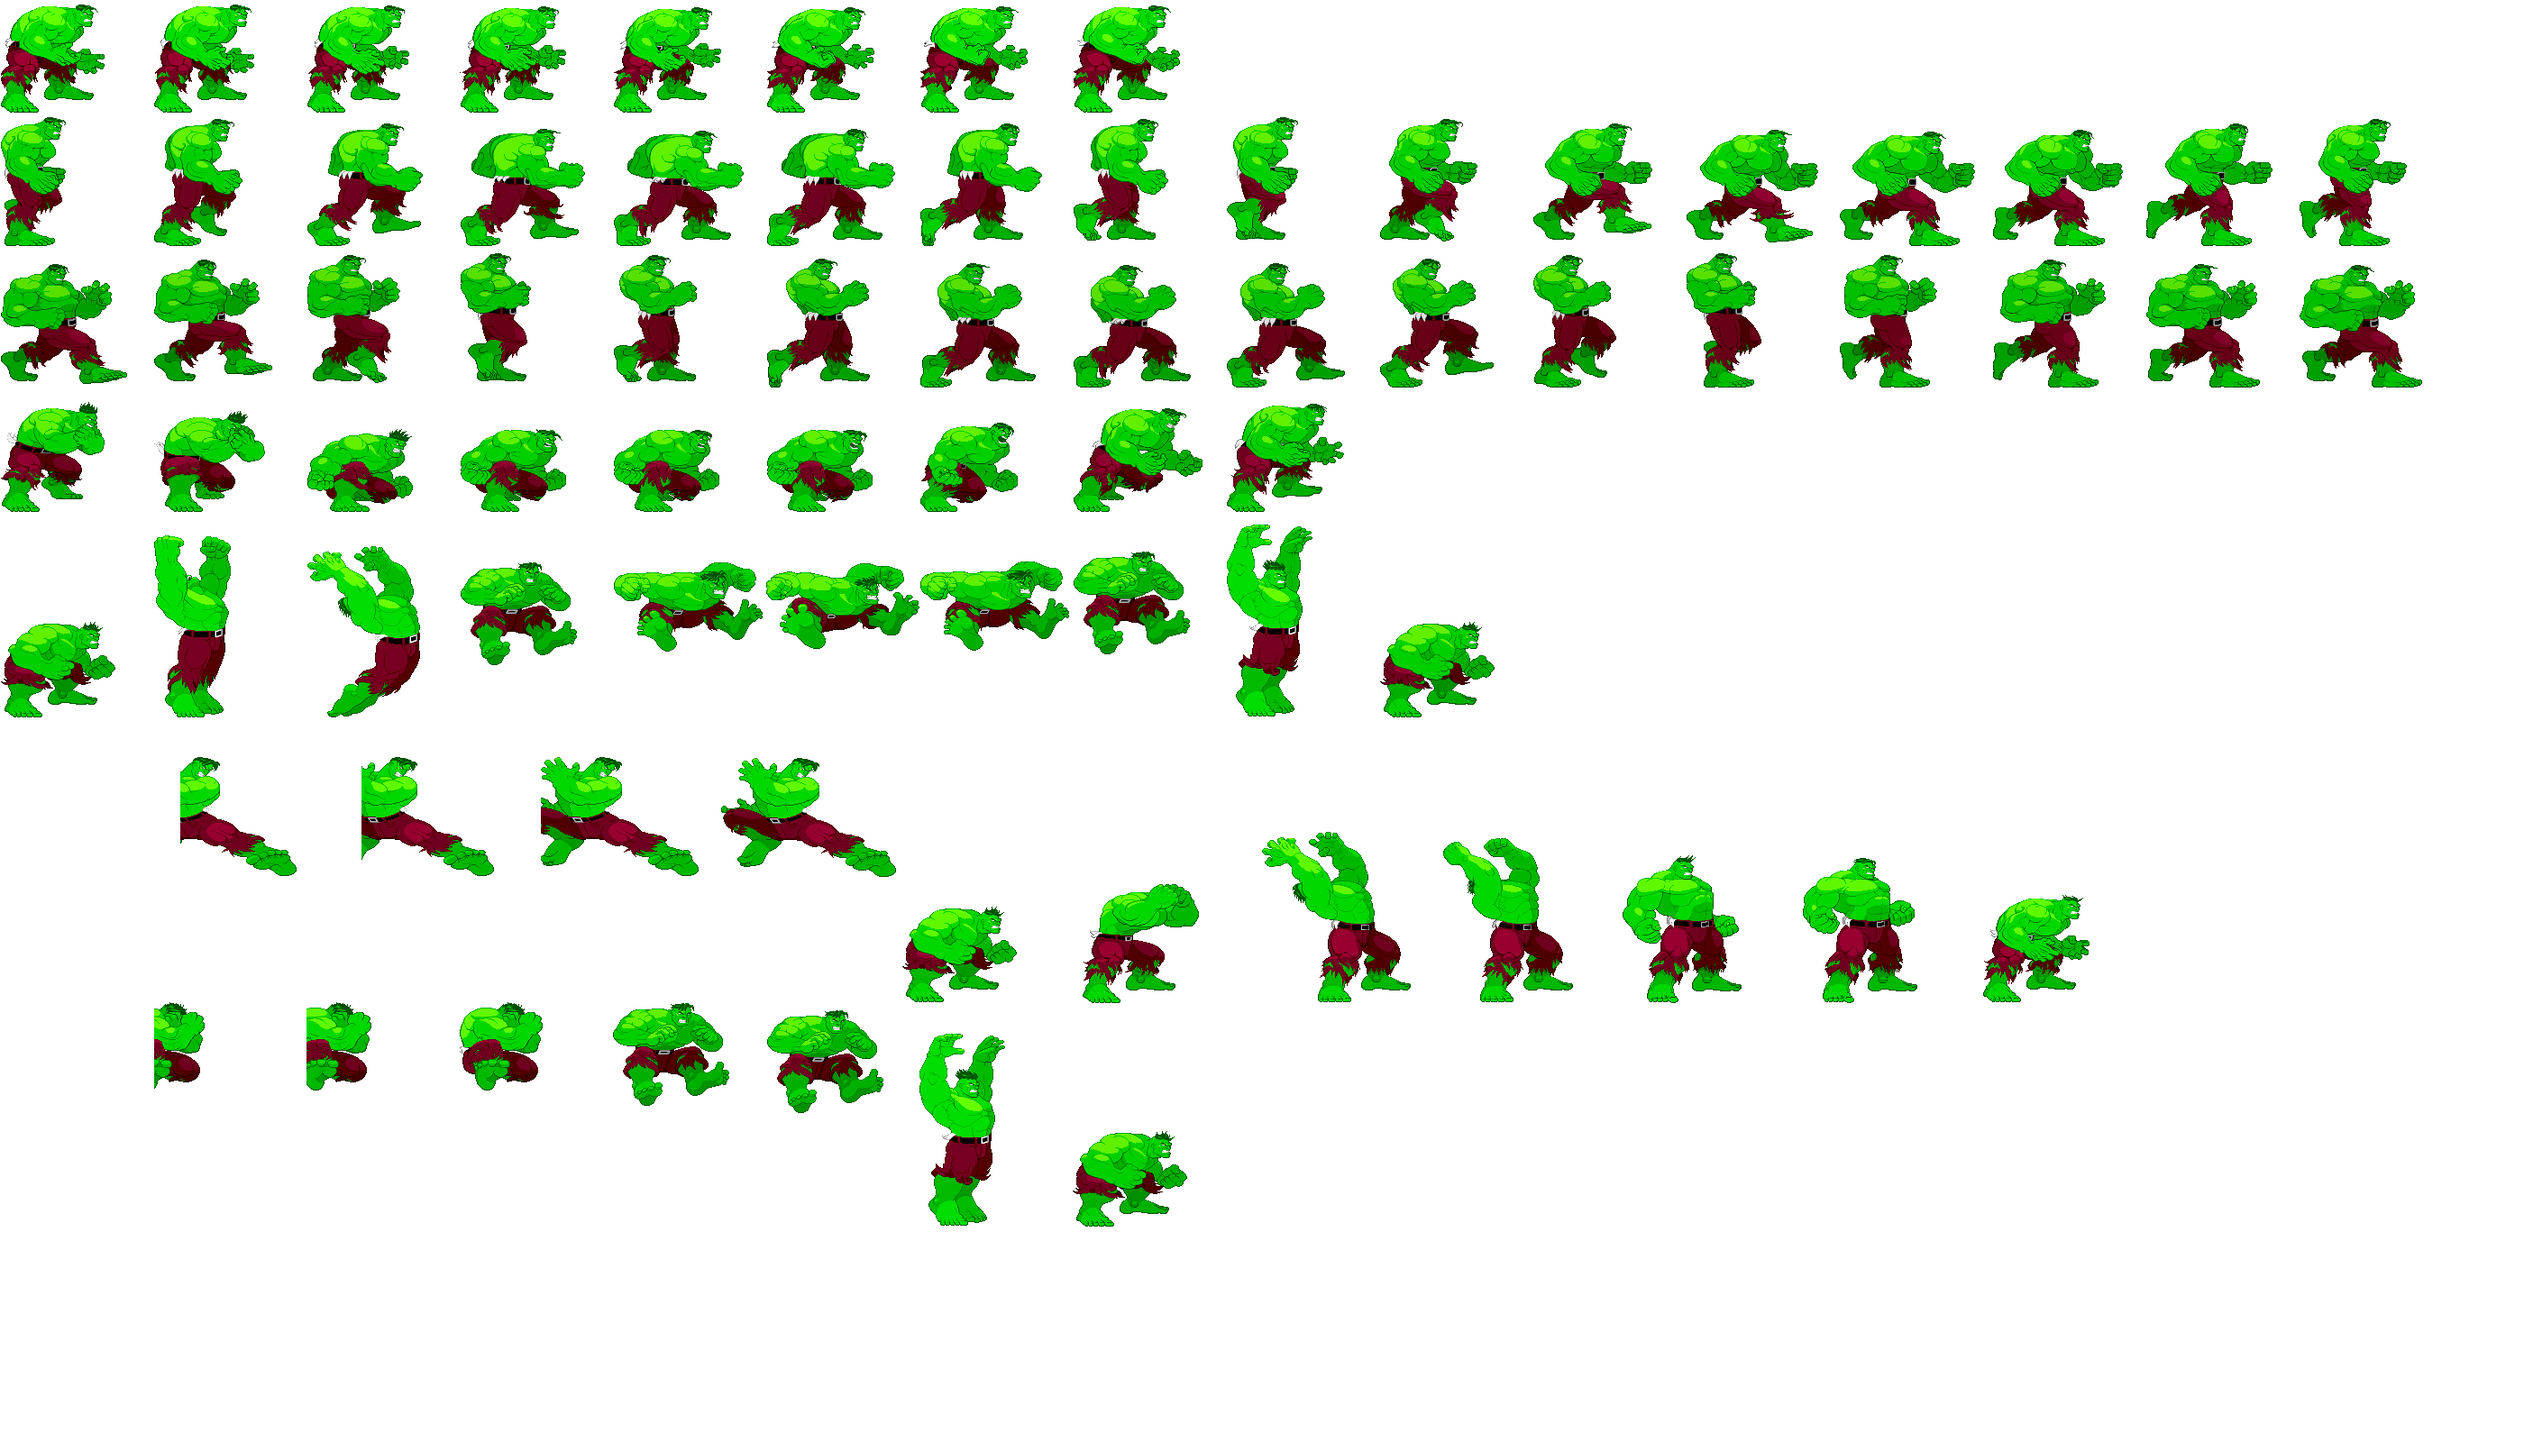
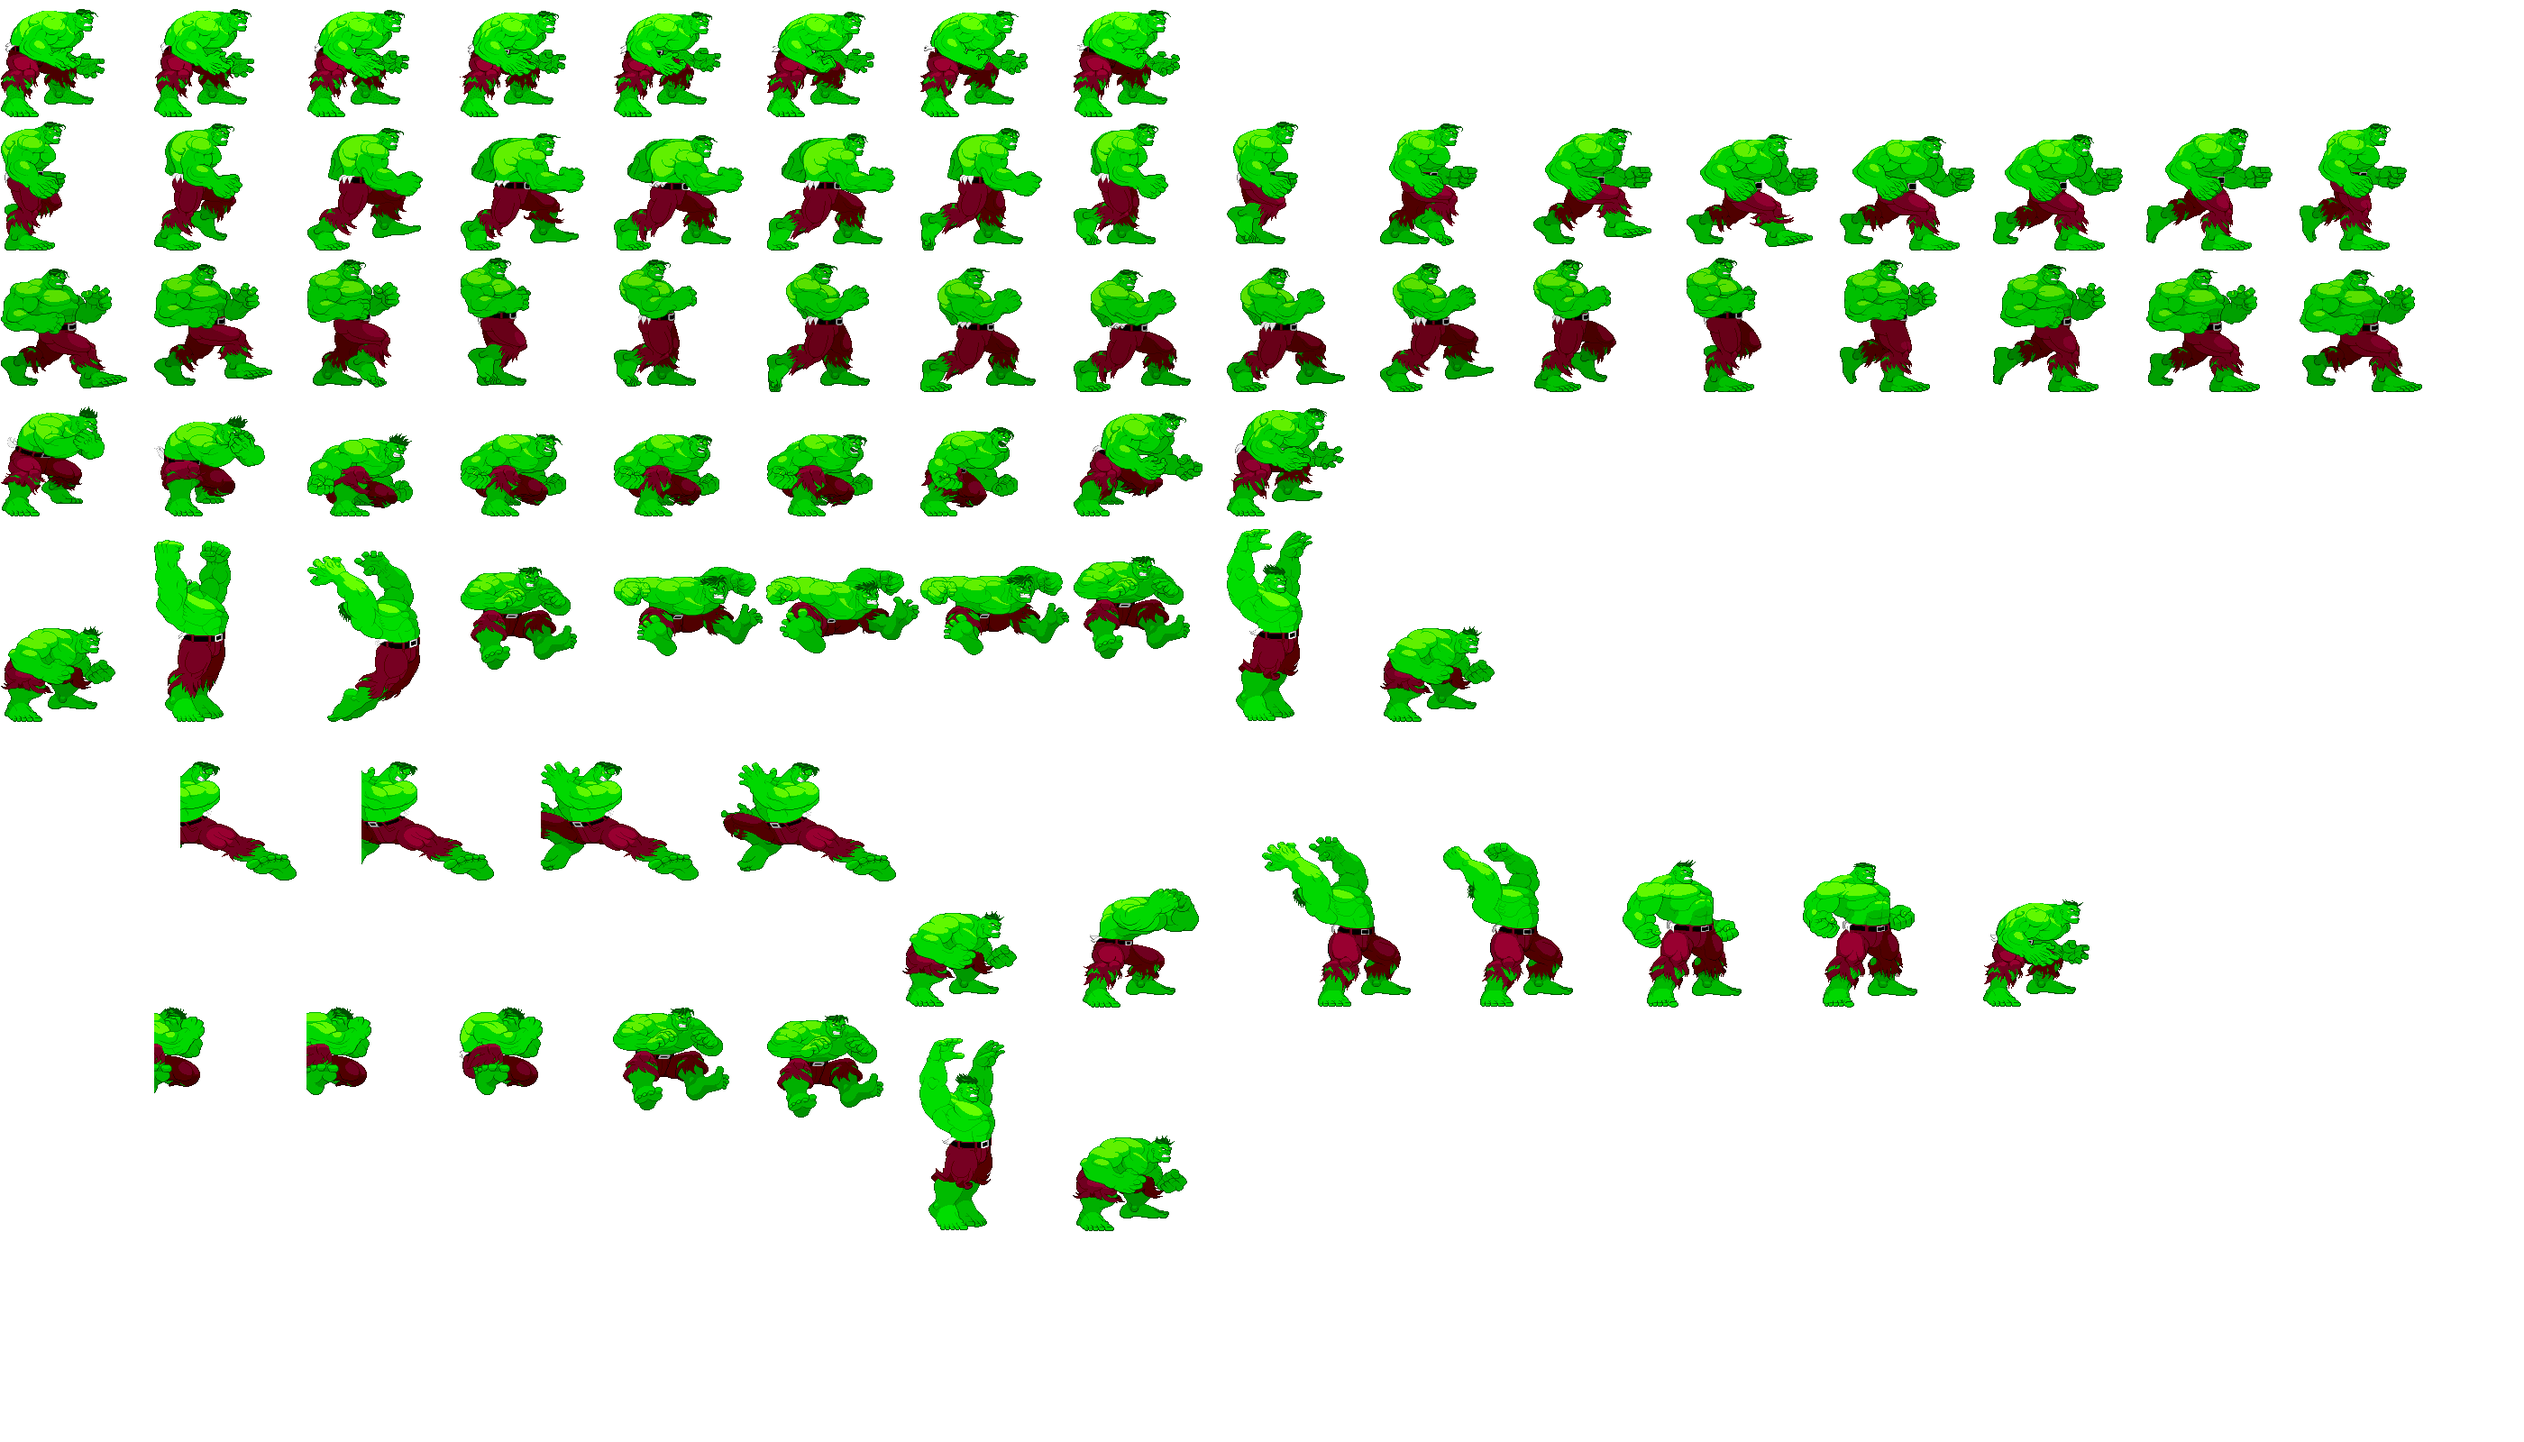
Mejoras en el sprite de capitan america + sol en capa z1
Y mejorado algo del piso, mas tamanios del fondo, etc

diff --git a/source/view/SpriteAnimado.cpp b/source/view/SpriteAnimado.cpp
@@ -30,7 +30,7 @@ string SpriteAnimado::getNombre(){
 
 void SpriteAnimado::cargarAnimaciones(string nombre){
 	if(nombre == "CapitanAmerica" ){
-		Animacion *quieto = new Animacion("quieto",9,0,16,100,120,6);
+		Animacion *quieto = new Animacion("quieto",9,11,16,100,120,6);
 		Animacion *moverDerecha = new Animacion("movDerecha",6,0,158,100,122,4);
 		Animacion *moverIzquierda = new Animacion("movIzquierda",6,0,288,100,122,4);
 		Animacion *salto = new Animacion("salto",8,0,590,125,140,7);
@@ -93,12 +93,12 @@ void SpriteAnimado::cargarAnimaciones(string nombre){
 
 	}
 	else if(nombre=="Hulk" ){
-		Animacion *quieto = new Animacion("quieto",8,0,0,170,129,10);
+		Animacion *quieto = new Animacion("quieto",8,0,0,170,130,10);
 		Animacion *moverDerecha = new Animacion("movDerecha",16,0,130,170,150,4);
 		Animacion *moverIzquierda = new Animacion("movIzquierda",16,0,130,170,150,4);
 		Animacion *salto = new Animacion("salto",10,0,580,170,215,6);
-		Animacion *agacharse = new Animacion("agacharse",5,0,445,170,123,4);
-		Animacion *cambioEntrada = new Animacion("cambioEntrada",8,0,1112,170,248,3);
+		Animacion *agacharse = new Animacion("agacharse",5,0,450,170,123,4);
+		Animacion *cambioEntrada = new Animacion("cambioEntrada",8,0,1119,170,248,3);
 		animaciones.push_back(quieto);
 		animaciones.push_back(moverDerecha);
 		animaciones.push_back(moverIzquierda);
@@ -232,7 +232,6 @@ int SpriteAnimado::getFrameIndex(){
 SDL_Rect SpriteAnimado::rectOrigen(){
 	return animacionActual->getRectOrigen(this->frameIndex);
 }
-
 
 void SpriteAnimado::dibujar(ControladorGrafico &graficos, int x, int y,int alto, int ancho, SDL_RendererFlip flip){
 

diff --git a/source/model/JuegoCliente.cpp b/source/model/JuegoCliente.cpp
@@ -59,11 +59,6 @@ void JuegoCliente::dibujar(string nombre,int posiciones[8],SDL_RendererFlip flip
 	if(nombre=="Titulo" ||nombre=="SubTitulo" || nombre=="Eleccion")
 		SDL_QueryTexture(getTextura(nombre), NULL, NULL,&w , &h);
 
-	if(posiciones[4]==-1){
-		this->grafico->dibujarImagen(getTextura(nombre),&origen, NULL, flip);
-		return;
-	}
-
 	destino.x = posiciones[4]-(w/2);
 	destino.y = posiciones[5];
 	destino.w = posiciones[6]+w;

diff --git a/headers/controler/ControladorJson.hpp b/headers/controler/ControladorJson.hpp
@@ -107,7 +107,7 @@ class ControladorJson{
 		int posicionXInicialJugador2; //= controladorJson->anchoVentana() *3/4;
 		int limiteFondoIzq;// = controladorJson->anchoVentana() * 1/8;
 		int limiteFondoDer;// = controladorJson->anchoVentana() * 15/16;
-		int altura_piso = 80;
+		int altura_piso = 60;
 
 };
 

diff --git a/source/model/Juego.cpp b/source/model/Juego.cpp
@@ -134,7 +134,6 @@ vector<tuple<string,SDL_Rect, SDL_Rect ,SDL_RendererFlip >>Juego::dibujar(){
 		}
 		else{
 			flip = SDL_FLIP_NONE;
-			destino ={-1,-1,-1,-1};
 			if(fondos_dibujados == 0 ){
 				SDL_Rect* origen = parallax->camaraz1();
 				SDL_Rect* destinoz1 = parallax->getDestinoZ1();

diff --git a/headers/view/Parallax.hpp b/headers/view/Parallax.hpp
@@ -39,8 +39,8 @@ class Parallax{
 		SDL_Rect camera_z2;
 		SDL_Rect camera_z3;
 		SDL_Rect destinoZ1 = {0,0,W,H};
-		SDL_Rect destinoZ2 = {0,0,W,H};
-		SDL_Rect destinoZ3 = {0,H-600,W,600};
+		SDL_Rect destinoZ2 = {0,H-605,W,605};
+		SDL_Rect destinoZ3 = {0,H-500,W,500};
 
 };
 
